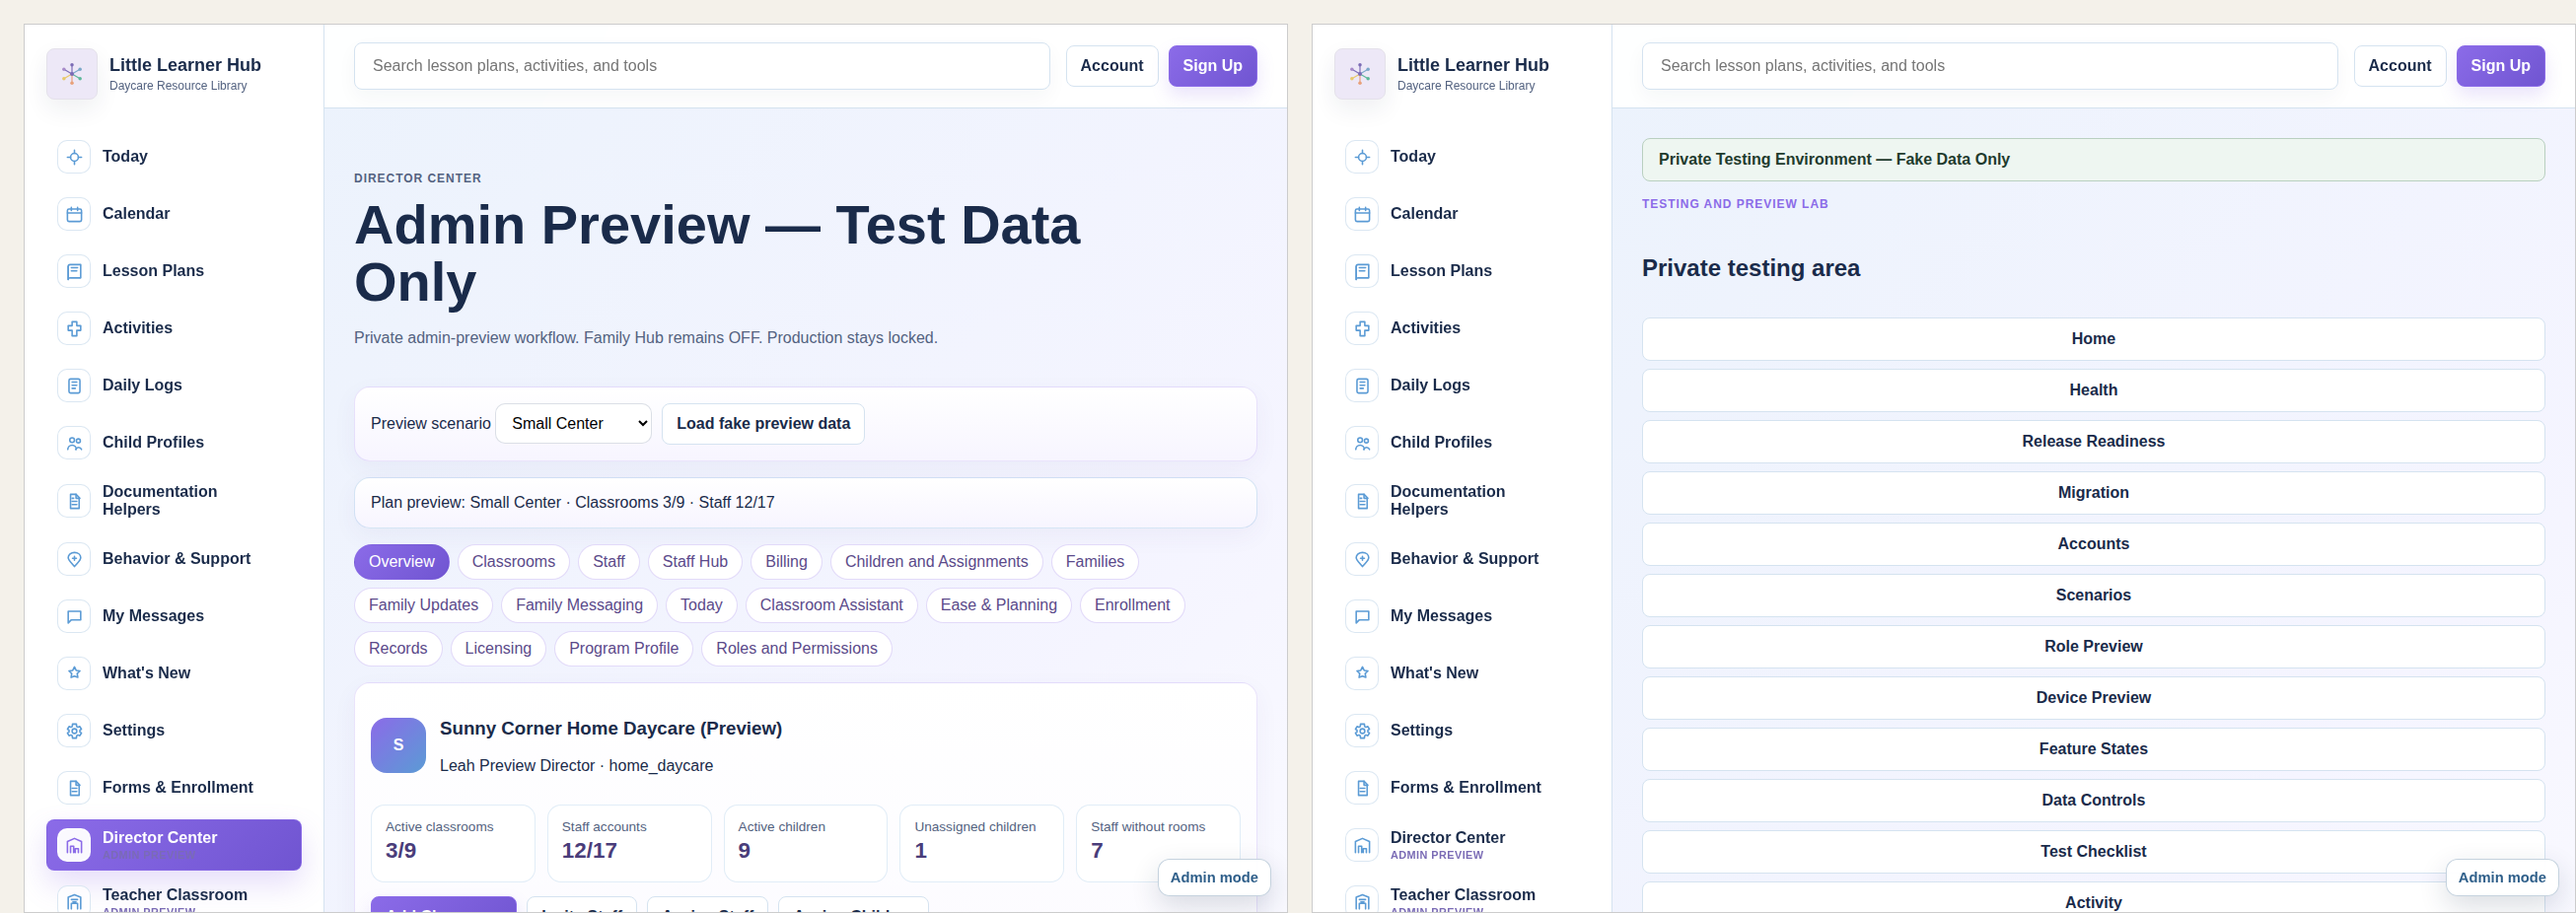
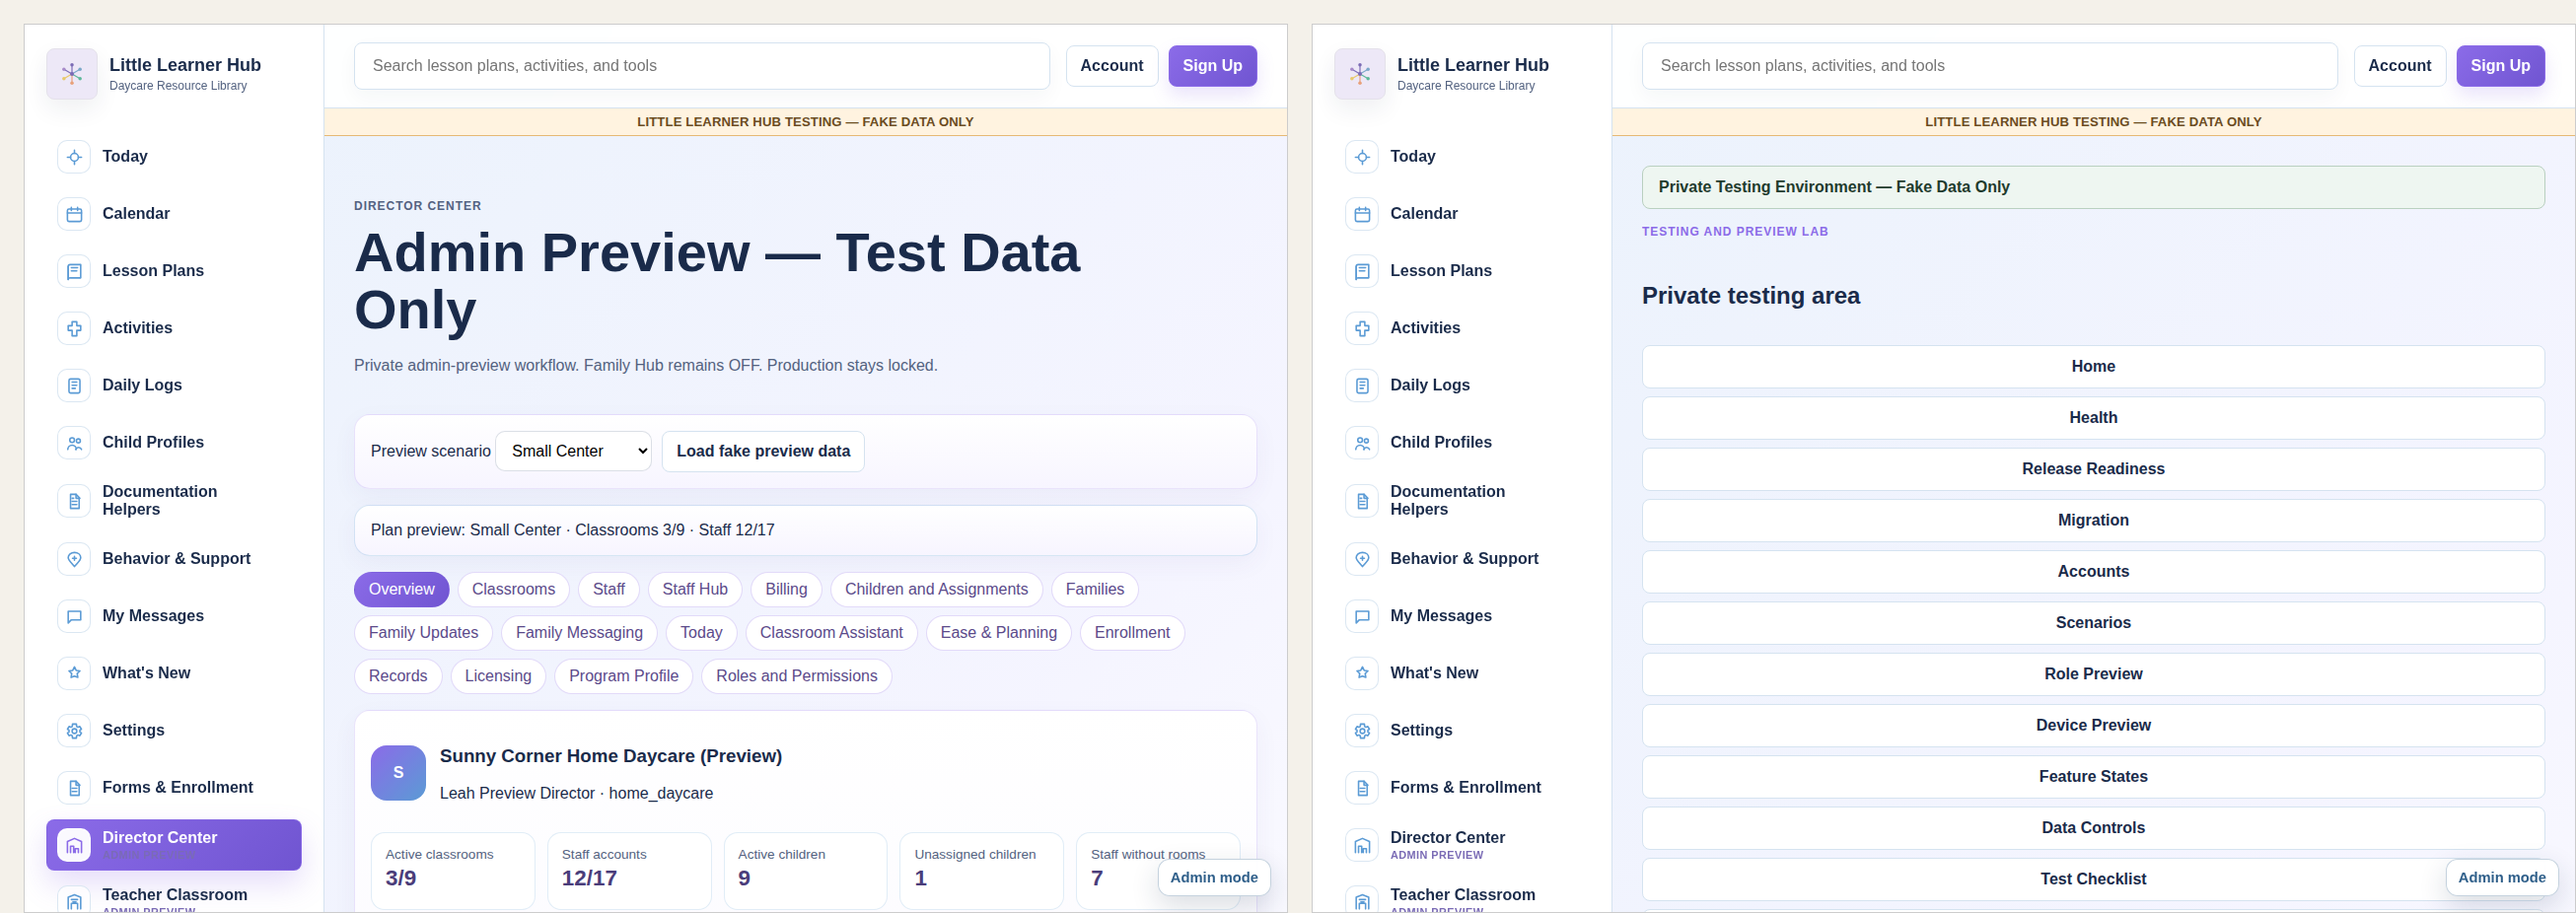
docs+test: hotfix report, screenshots, and npm test scripts
- docs/TESTING_ADMIN_HOTFIX_REPORT.md: root cause, files changed, test
  results, and confirmation main/production are untouched.
- docs/screenshots/testing-admin-hotfix/: Platform Admin's Testing Lab
  and an external tester's screen with the testing banner + feedback
  button.
- package.json: test:admin-preview-escape, test:tester-account-manager,
  test:admin-clickability-visual scripts.
- Refreshed phase23 walkthrough screenshots (re-run of an existing test,
  no content changes beyond the new testing-identity banner now visible).

diff --git a/docs/TESTING_ADMIN_HOTFIX_REPORT.md b/docs/TESTING_ADMIN_HOTFIX_REPORT.md
@@ -1,0 +1,75 @@
+# Urgent Testing-Site Admin Hotfix — Report
+
+Branch: `cursor/testing-admin-preview-hotfix-1ab6` (targets `testing/full-platform-integration-2026-07`, **not** `main`). No production code path, Stripe, Resend, email/SMS, or OpenAI integration was touched.
+
+## 1. Root cause of the unclickable Admin screen
+
+Two confirmed, reproduced bugs combined to produce "I entered the Director preview and now buttons do not respond, including 'Return to Admin.'":
+
+1. **Testing Lab's "Exit Role Preview" / "Return to Admin" only cleared local state *after* a successful round‑trip to the server.** Both handlers awaited `POST /api/testing-lab/role-preview/exit` inside a `try` block and only cleared `sessionStorage.llhRolePreviewMembershipId` / `state.preview` on success. Any transient server error (this environment was independently observed returning `503`s from other admin endpoints during investigation) left the admin stuck in preview with no way to leave — exactly the reported symptom. **Fixed:** both handlers now clear local state *first, unconditionally*, and treat the server call as best‑effort (fire‑and‑forget), in `testing-lab-ui.js`.
+2. **A single unguarded call inside the app's global delegated click handler could silently stop every later click check for that click.** `document.addEventListener("click", ...)` runs one big handler; the very first thing it did was call `trackEvent(...)` (unwrapped) for almost every button click. If that call ever threw, execution stopped there and *none* of the checks below it in the same handler — including the "Return to Admin" / preview‑mode buttons — would run for that click. **Fixed:** wrapped that call in `try/catch` in `app.js`, and moved the brand‑new top‑nav escape check to the very top of the handler so it can never be blocked by anything else in the same function.
+
+A related, confirmed defect was also fixed as part of this: the always‑visible floating "Admin mode" badge (`position: fixed; right:16px; bottom:16px`) was shown *unconditionally*, even with no preview active, and could visually overlap and swallow clicks on other bottom‑right content (e.g. "Open Testing Lab") on narrower/shorter screens — found via the new automated clickability sweep. It now only appears while a preview or impersonation is actually active.
+
+Also discovered and fixed while auditing the Testing Feedback path: the tester‑facing feedback textarea and its containing panel both used the same `data-tf-body` attribute, so the submit handler's `querySelector("[data-tf-body]")` always matched the *container div* (which has no `.value`), meaning a tester could never actually submit real feedback text through the floating button — every attempt silently failed with "Please describe what you want to share." Renamed the textarea's hook to `data-tf-new-body-input`. A second issue in the same widget — a draft could be silently wiped mid‑typing by the 30‑second background unread‑count poll re‑rendering the panel — was also fixed by syncing `state.bodyText`/`state.replyText` on every keystroke.
+
+## 2. What changed, by requirement
+
+### Admin preview escape
+- `testing-lab-ui.js`: local‑first, best‑effort exit for both "Exit Role Preview" (desktop + phone, now on distinct `data-tl-exit-preview` / `data-tl-exit-preview-mobile` attributes instead of a shared one) and "Return to Admin".
+- `app.js`: new `exitAllPreviewModes()` — a single function that resets admin plan‑preview mode, stops impersonation, and clears the Testing Lab role‑preview flag, each step independently try/catch‑guarded so one failure can never block the others.
+- New **second, permanent escape** in the top navigation (`#topNavExitPreviewBtn`, `index.html`) — normal document flow, never an overlay, visible whenever any preview is active, wired first in the global click handler.
+- `applyAdminPreviewToPlatform()`'s render dispatch is now wrapped in try/catch; a rendering failure while previewing falls back to Admin mode instead of leaving a broken page.
+- Refreshing mid‑preview lands on a safe view; the real admin session (token/email/unlocked flag) is provably untouched by entering, refreshing, or exiting a preview (new automated test).
+
+### Clear testing identity
+- New global banner "LITTLE LEARNER HUB TESTING — FAKE DATA ONLY" (`#testingIdentityBanner`, non‑obstructive, normal document flow) plus a role line ("Testing Account — Viewing as …") for fake‑account testers and admin preview/impersonation states. Both are gated by a client‑side `isProductionHostClient()` check mirroring the server's own production‑hostname list — **never shown on the real production host**.
+- Every "Live production data" string in the Admin Dashboard (`app.js`) is now conditional and reads "Testing database loaded — fake data only" on a non‑production host.
+
+### Real tester accounts
+- New Testing Lab UI section: create/reset a fake tester organization (Solo Home Daycare or Multi‑Classroom Center) with a custom label, then "Generate fresh logins for every role in this organization" in one action, each with an immediate Copy button.
+- New endpoints in `server/testing-lab-api.js`: `accounts/issue-passwords-for-org`, `accounts/suspend`, `accounts/reactivate`, `accounts/end`. Suspend blocks login reversibly; End permanently clears every stored credential (old password never works again, even after reactivating — a fresh reissue is required). A previously‑issued password is never returned anywhere again.
+- Account rows now show their assigned organization and role.
+- External testers still have no role‑switcher — this is exclusively an Admin/Testing Lab surface.
+
+### Testing feedback
+- Testers can attach a screenshot, gated by an explicit privacy‑warning confirmation dialog before the file is ever read. Screenshots are validated (image MIME type, size‑bounded ~650KB) both client‑ and server‑side (`scripts/testing-feedback-data-model.js`).
+- Every thread now automatically records the server's deployed commit SHA (`context.deployedCommit`, from `LLH_GIT_SHA`/`GIT_COMMIT`), shown in the admin thread view alongside role/org/page/device/timestamp.
+- Fixed the textarea bug above so testers can actually submit feedback at all, and fixed the draft‑wipe bug so long messages survive the background poll.
+
+### Testing Lab access
+- New persistent "Testing Lab" link in the primary sidebar (`index.html`, `data-testing-lab-nav`), visible whenever Admin is unlocked on a non‑production host — no Settings search or hidden route required.
+
+### Clickability & visual regression
+- New `scripts/test-admin-preview-escape.js` (9 checks): every admin plan‑preview mode and every Quick Role Preview target enter/exit cleanly; the new top‑nav escape works and hides itself; **the core fix is directly verified by forcing the server‑side exit call to fail/abort and confirming local state still clears**; refresh‑safety; session‑immutability; Testing Lab nav reachability; no production wording.
+- New `scripts/test-tester-account-manager.js` (9 checks): org creation, org‑wide login generation, suspend/reactivate/end, "never view a password again."
+- New `scripts/test-admin-clickability-visual.js` (8 checks): every visible button at desktop/tablet/phone actually receives its own clicks, no invisible full‑screen overlay, sidebar scroll, Testing Lab reachable at every size, account generation and tester feedback work end‑to‑end, no production wording, **zero real Stripe/Resend/OpenAI/SMS network calls across the whole run**, and the two required screenshots.
+- Extended `scripts/test-testing-feedback.js` (+1) and `scripts/test-testing-lab-phase18.js` (selector fix for the renamed mobile attribute).
+
+## 3. Test results (this branch)
+
+```
+npm run test:admin-preview-escape        → 9 PASS
+npm run test:tester-account-manager      → 9 PASS
+npm run test:admin-clickability-visual   → 8 PASS
+npm run test:testing-feedback            → 18 PASS
+npm run test:testing-lab-phase18         → 18 PASS
+npm run test:phase23-platform-walkthrough→ 15 PASS
+npm run test:password-hash-security      → 7 PASS
+npm run test:testing-database-isolation  → 3 PASS
+npm run test:family-foundation-phase8    → 36 PASS
+npm run test:director-family-foundation  → all PASS
+npm run check (syntax)                   → clean
+```
+
+## 4. Screenshots
+
+- `docs/screenshots/testing-admin-hotfix/admin-testing-lab.png` — Platform Admin's Testing Lab, testing banner visible at top.
+- `docs/screenshots/testing-admin-hotfix/external-tester-testing-banner.png` — an external tester (Lead Teacher fake account) with the testing banner, role line, and floating Testing Feedback button visible.
+
+## 5. Confirmation
+
+- `main` and production were never touched — this branch only ever targets `testing/full-platform-integration-2026-07`.
+- AI Testing remains disabled (no change to `ALLOW_OPENAI_TESTING`/`DISABLE_AI_CALLS`), Phase 24 was not started.
+- Stripe, Resend, email, and SMS integrations are untouched; the clickability test explicitly asserts zero requests to any of those hosts across the whole browser-driven run.
+- Do not merge or deploy until reviewed and approved.
